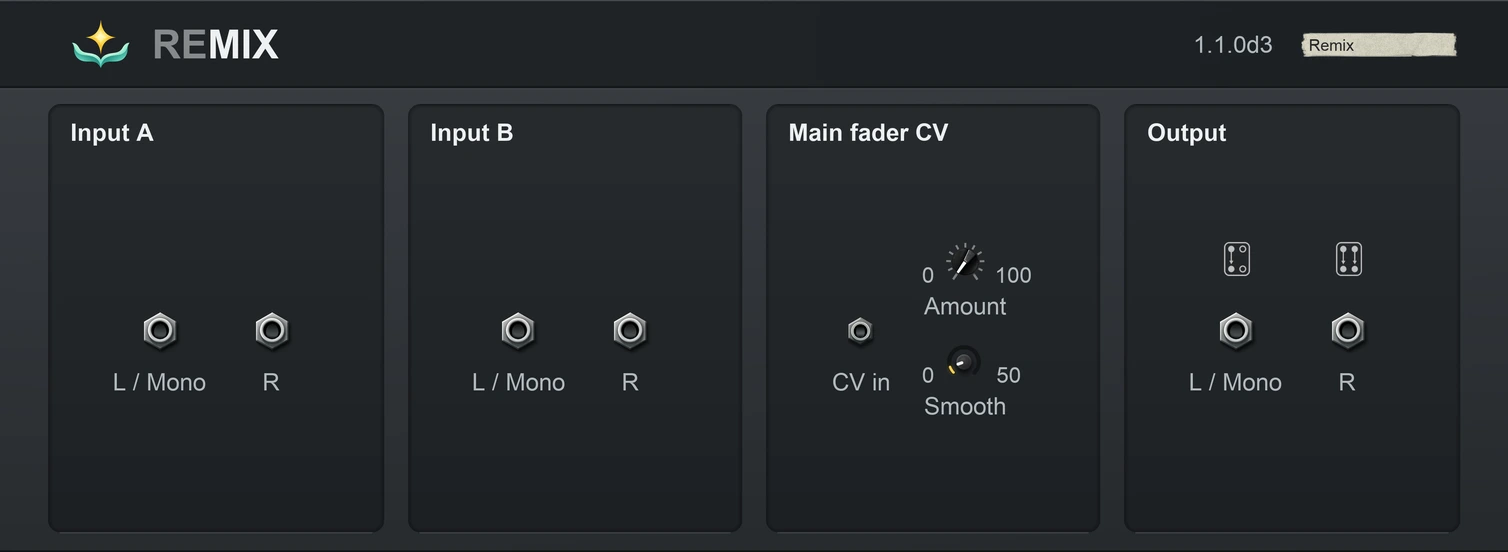
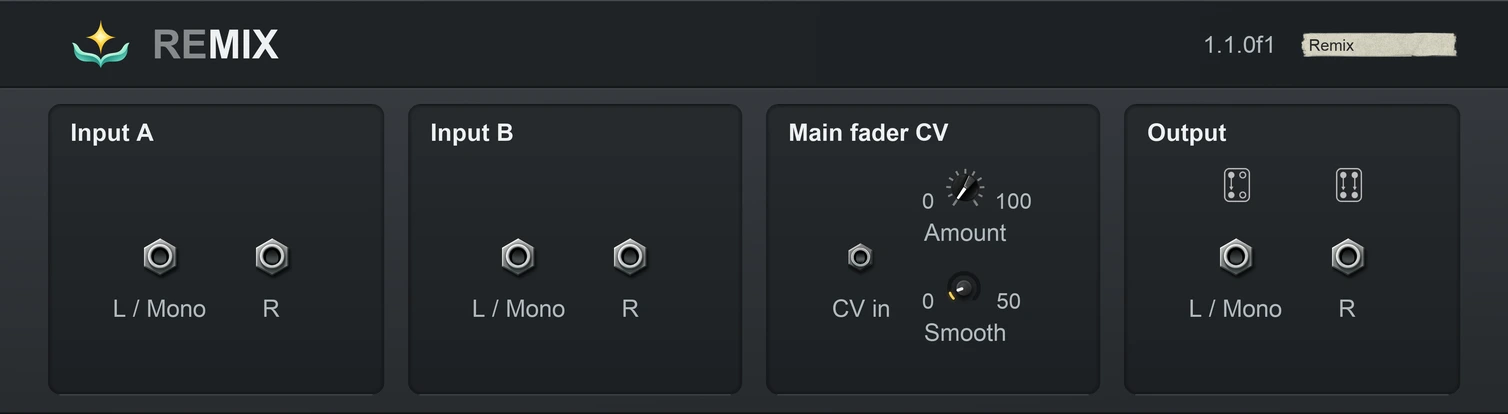
Remix page: the 3U 1.1.0f1 panels
Claude-Session: https://claude.ai/code/session_01NMJbGoVr5mAcZK4ePGkiDy

diff --git a/product/remix/index.html b/product/remix/index.html
@@ -116,8 +116,8 @@
           </div>
         </div>
         <figure class="shot hero-shot">
-          <a class="screenshot-link" href="remix-rack-front.webp?v=20261107b-1.1.0" aria-label="View the Remix Rack Extension front panel at full size" data-analytics-cta="front_panel" data-analytics-action="view_screenshot">
-            <img src="remix-rack-front.webp?v=20261107b-1.1.0" width="1508" height="552" fetchpriority="high" decoding="async" alt="Remix Rack Extension front panel with a live crossfade scope, the Main fader under it, the Shape and Skew knobs and level meters">
+          <a class="screenshot-link" href="remix-rack-front.webp?v=20261107c-1.1.0" aria-label="View the Remix Rack Extension front panel at full size" data-analytics-cta="front_panel" data-analytics-action="view_screenshot">
+            <img src="remix-rack-front.webp?v=20261107c-1.1.0" width="1508" height="414" fetchpriority="high" decoding="async" alt="Remix Rack Extension front panel with a live crossfade scope, the Main fader under it, the Shape and Skew knobs and level meters">
             <span class="shot-caption">Front panel · development build <span>View full size <span aria-hidden="true">↗</span></span></span>
           </a>
         </figure>
@@ -149,8 +149,8 @@
           <p class="lede">CV patched into the back takes over from the Main fader, and Reason's standard trim beside the jack attenuates it. Remix sits with the Utilities and has no bypass, because a crossfader is always mixing.</p>
         </div>
         <figure class="shot">
-          <a class="screenshot-link" href="remix-rack-rear.webp?v=20261107b-1.1.0" aria-label="View the Remix Rack Extension rear panel at full size" data-analytics-cta="rear_panel" data-analytics-action="view_screenshot">
-            <img src="remix-rack-rear.webp?v=20261107b-1.1.0" width="1508" height="552" loading="lazy" decoding="async" alt="Remix Rack Extension rear panel and connections">
+          <a class="screenshot-link" href="remix-rack-rear.webp?v=20261107c-1.1.0" aria-label="View the Remix Rack Extension rear panel at full size" data-analytics-cta="rear_panel" data-analytics-action="view_screenshot">
+            <img src="remix-rack-rear.webp?v=20261107c-1.1.0" width="1508" height="414" loading="lazy" decoding="async" alt="Remix Rack Extension rear panel and connections">
             <span class="shot-caption">Rear panel &amp; connections <span>View full size <span aria-hidden="true">↗</span></span></span>
           </a>
         </figure>
@@ -167,7 +167,7 @@
         <aside class="info-card compatibility" aria-label="Remix requirements and availability">
           <h3>Requirements &amp; availability</h3>
           <dl class="platforms">
-            <div><dt>Format</dt><dd>Rack Extension for Reason · 4U</dd></div>
+            <div><dt>Format</dt><dd>Rack Extension for Reason · 3U</dd></div>
             <div><dt>Audio</dt><dd>Two stereo or mono inputs, stereo output</dd></div>
             <div><dt>Control</dt><dd>Main fader, CV, automation</dd></div>
             <div><dt>Availability</dt><dd>Free · coming soon!</dd></div>
